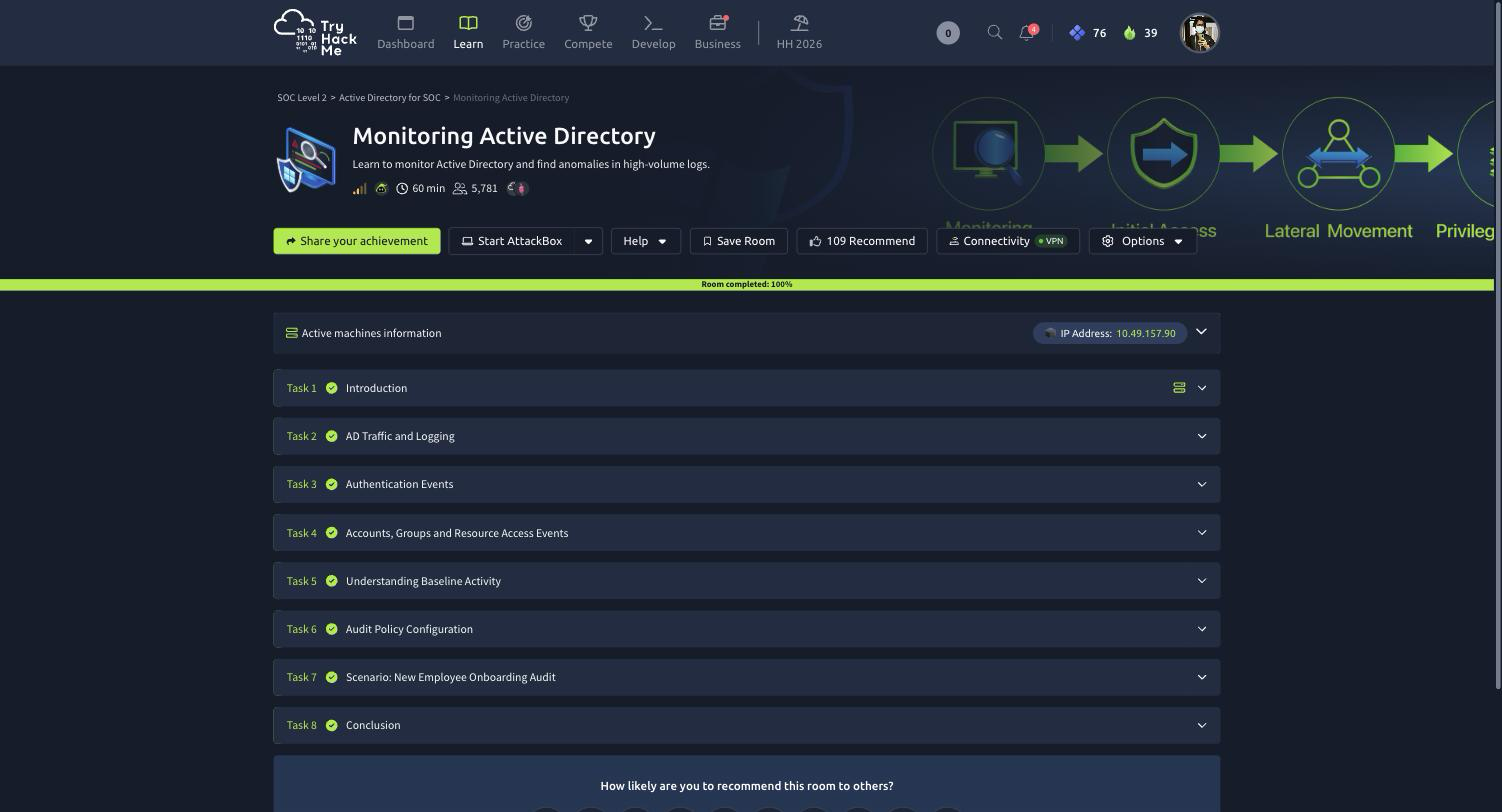
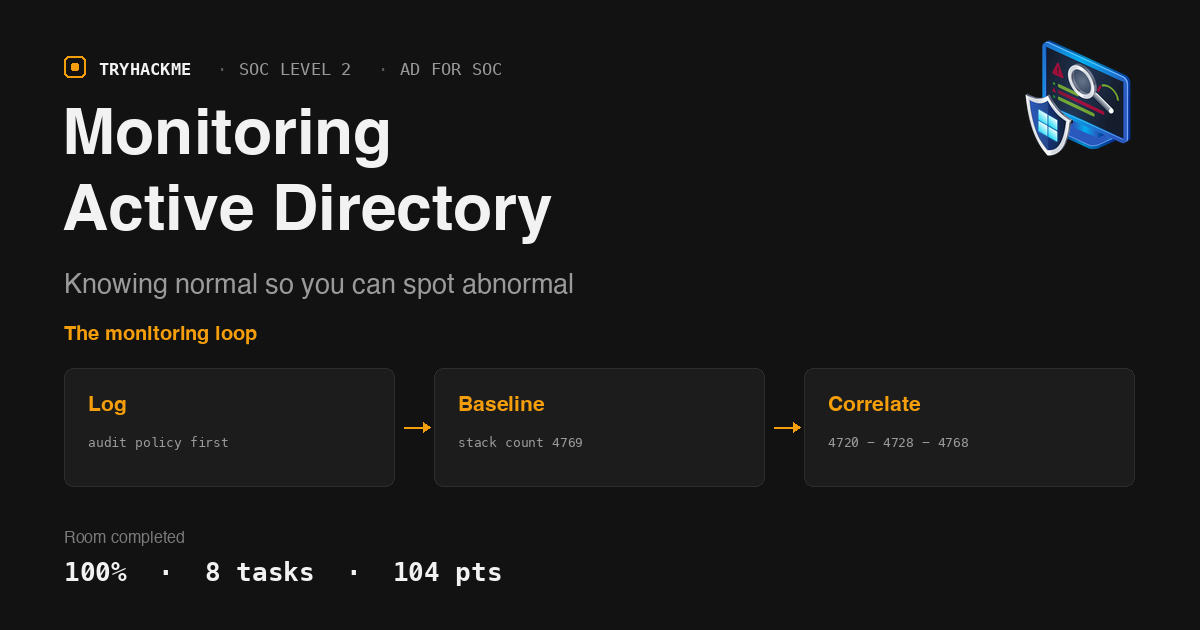
post: TryHackMe Detecting AD Credential Attacks walkthrough — Kerberoasting via RC4 (4769 enc 0x17), AS-REP roasting (Pre_Auth_Type 0), LSASS dumping (procdump 0x1FFFFF + dbgcore.dll), DCSync (4662 Control Access on the domain object), NTDS.dit via ntdsutil IFM + shadow copy, and the rundll32/comsvc
Also adds scripts/gen_room_cover.py and regenerates the Monitoring AD and
Initial Access thumbnails: the previous two were raw browser screenshots
instead of the 1200x630 OG cards the other room posts use. Covers now match
the house style and carry the TryHackMe room logo.

diff --git a/scripts/gen_room_cover.py b/scripts/gen_room_cover.py
@@ -1,0 +1,147 @@
+#!/usr/bin/env python3
+"""Generate a 1200x630 OG cover card for a TryHackMe room walkthrough.
+
+Matches the house style used across classroom.anir0y.in room posts:
+near-black background, a single accent colour, uppercase mono kicker,
+oversized title, a row of content cards, the room logo, and a mono footer.
+
+Usage (as a module):
+    from gen_room_cover import make_cover
+    make_cover(out="static/img/thm-foo/00-thumbnail.png", ...)
+"""
+
+from PIL import Image, ImageDraw, ImageFont
+
+W, H = 1200, 630
+
+BG = (18, 18, 18)
+CARD_BG = (28, 28, 28)
+CARD_BORDER = (48, 44, 40)
+WHITE = (242, 242, 242)
+GREY = (154, 154, 154)
+DIM = (122, 122, 122)
+
+ACCENTS = {
+    "orange": (245, 158, 11),
+    "teal": (13, 190, 175),
+}
+
+HELV = "/System/Library/Fonts/Helvetica.ttc"
+MENLO = "/System/Library/Fonts/Menlo.ttc"
+
+
+def sans(size, bold=True):
+    # Helvetica.ttc: index 1 is Bold, 0 is Regular
+    return ImageFont.truetype(HELV, size, index=1 if bold else 0)
+
+
+def mono(size, bold=False):
+    # Menlo.ttc: index 0 Regular, 1 Bold
+    return ImageFont.truetype(MENLO, size, index=1 if bold else 0)
+
+
+def text_w(draw, s, font):
+    b = draw.textbbox((0, 0), s, font=font)
+    return b[2] - b[0]
+
+
+def make_cover(
+    out,
+    title_lines,
+    subtitle,
+    kicker,            # list of segments after "TRYHACKME", e.g. ["SOC LEVEL 2", "ACTIVE DIRECTORY"]
+    section_label,
+    cards,             # list of (heading, detail) tuples, 3 or 4
+    footer_label,
+    footer_value,
+    logo=None,
+    accent="orange",
+    arrows=True,
+):
+    acc = ACCENTS[accent]
+    img = Image.new("RGB", (W, H), BG)
+    d = ImageDraw.Draw(img)
+
+    # ---- kicker row -------------------------------------------------
+    x, y = 64, 56
+    # small accent square glyph
+    d.rounded_rectangle([x, y, x + 21, y + 21], radius=5, outline=acc, width=2)
+    d.rounded_rectangle([x + 7, y + 7, x + 14, y + 14], radius=2, fill=acc)
+    x += 35
+
+    f_kick = mono(17, bold=True)
+    d.text((x, y + 3), "TRYHACKME", fill=WHITE, font=f_kick)
+    x += text_w(d, "TRYHACKME", f_kick) + 26
+
+    f_kick2 = mono(17)
+    for seg in kicker:
+        d.text((x, y + 3), "·", fill=(90, 90, 90), font=f_kick2)
+        x += 22
+        d.text((x, y + 3), seg.upper(), fill=GREY, font=f_kick2)
+        x += text_w(d, seg.upper(), f_kick2) + 26
+
+    # ---- room logo (top right) --------------------------------------
+    if logo:
+        try:
+            lg = Image.open(logo).convert("RGBA")
+            lg.thumbnail((116, 116), Image.LANCZOS)
+            img.paste(lg, (W - 64 - lg.width, 40), lg)
+        except Exception as e:  # noqa: BLE001 - cover art is best-effort
+            print(f"  ! logo skipped: {e}")
+
+    # ---- title ------------------------------------------------------
+    # Two-line titles need a tighter type size and a higher start so the
+    # subtitle and card row keep their breathing room on a 630px canvas.
+    two_line = len(title_lines) > 1
+    t_size, t_start, t_step = (64, 104, 76) if two_line else (72, 118, 82)
+
+    y = t_start
+    f_title = sans(t_size)
+    for line in title_lines:
+        d.text((62, y), line, fill=WHITE, font=f_title)
+        y += t_step
+
+    # ---- subtitle ---------------------------------------------------
+    y += 16
+    f_sub = sans(27, bold=False)
+    d.text((64, y), subtitle, fill=GREY, font=f_sub)
+
+    # ---- section label ----------------------------------------------
+    y_cards = 368 if two_line else 352
+    d.text((64, y_cards - 44), section_label, fill=acc, font=sans(20))
+
+    # ---- cards ------------------------------------------------------
+    n = len(cards)
+    gap = 40 if arrows else 22
+    total_w = W - 128
+    cw = (total_w - gap * (n - 1)) // n
+    ch = 118
+    f_ch = sans(21)
+    f_cd = mono(13)
+
+    for i, (heading, detail) in enumerate(cards):
+        cx = 64 + i * (cw + gap)
+        d.rounded_rectangle(
+            [cx, y_cards, cx + cw, y_cards + ch],
+            radius=9, fill=CARD_BG, outline=CARD_BORDER, width=1,
+        )
+        d.text((cx + 24, y_cards + 26), heading, fill=acc, font=f_ch)
+        d.text((cx + 24, y_cards + 66), detail, fill=GREY, font=f_cd)
+
+        if arrows and i < n - 1:
+            ax = cx + cw + 10
+            ay = y_cards + ch // 2
+            d.line([(ax, ay), (ax + 19, ay)], fill=acc, width=2)
+            d.polygon([(ax + 19, ay - 5), (ax + 26, ay), (ax + 19, ay + 5)], fill=acc)
+
+    # ---- footer -----------------------------------------------------
+    fy = y_cards + ch + 44
+    d.text((64, fy), footer_label, fill=DIM, font=sans(16, bold=False))
+    d.text((64, fy + 26), footer_value, fill=WHITE, font=mono(26, bold=True))
+
+    img.save(out, "PNG", optimize=True)
+    print(f"  Created {out} ({W}x{H})")
+
+
+if __name__ == "__main__":
+    print("This module is imported by per-room cover scripts.")

diff --git a/content/post/thm-room-detectingadcredentialattacks.md b/content/post/thm-room-detectingadcredentialattacks.md
@@ -1,0 +1,182 @@
+---
+title: "TryHackMe Detecting AD Credential Attacks Walkthrough"
+date: 2026-08-16T23:55:00+05:30
+lastmod: 2026-08-16T23:55:00+05:30
+author: Animesh Roy
+avatar: /img/avatar.jpeg
+authorlink: https://anir0y.in
+featureimage: img/thm-adcredattacks/00-thumbnail.png
+
+categories:
+  - TryHackMe
+tags:
+  - tryhackme
+  - thm
+  - rooms
+  - SOC Level 2
+  - Active Directory
+  - Splunk
+  - Kerberoasting
+  - DCSync
+  - Threat Hunting
+  - Blue Team
+
+draft: false
+description: "Walkthrough of TryHackMe Detecting AD Credential Attacks: Kerberoasting via RC4 service tickets, AS-REP roasting, LSASS dumping with procdump, DCSync via Event 4662, and NTDS.dit extraction."
+---
+
+## Detecting AD Credential Attacks
+
+Third room in the **Active Directory for SOC** module, after [Monitoring Active Directory](/post/thm-room-monitoringactivedirectory/) and [Detecting AD Initial Access](/post/thm-room-detectingadinitialaccess/). Those two covered what normal looks like and how an attacker gets through the front door. This one covers the five techniques that bridge the gap between *attacker has a foothold* and *attacker owns the domain*: Kerberoasting, AS-REP roasting, LSASS dumping, DCSync, and NTDS.dit extraction.
+
+The framing is a real intrusion. In August 2024 a DFIR Report case documented BlackSuit ransomware operators using Rubeus to Kerberoast service accounts, AS-REP roasting an account with preauthentication disabled, and dumping credentials from LSASS memory — all in a single intrusion. A separate BlackSuit case investigated by ReliaQuest that same year saw over 20 accounts compromised through Kerberoasting alone, including a domain administrator. None of it was exotic.
+
+Eight tasks, eighteen graded answers, and a nice structural touch: **each task has its own Splunk index** (`task2` through `task7`), so the datasets never contaminate each other. All solved 100%.
+
+![TryHackMe Detecting AD Credential Attacks at 100%, all eight tasks complete](/img/thm-adcredattacks/00-thumbnail.png)
+
+As with the previous rooms I ran the SPL through Splunk's REST API and re-ran the interesting searches in the browser for the screenshots. And again: **set the time picker to All time** — the data is timestamped March 2026.
+
+## Task 2: Kerberoasting
+
+Kerberoasting works because any domain user can request a service ticket for any account with an SPN, and the ticket is encrypted with the service account's password hash. Request it, take it offline, crack it. The room's explanation of *how accounts end up roastable* is the honest one: an admin needs to run SQL Server, uses their own DA account as the service identity because it is quick, sets a memorable password, and moves on. Repeat over several years.
+
+The detection signal is the encryption type. Modern AD issues AES-256 (`0x12`); attackers deliberately request **RC4 (`0x17`)** because it cracks far faster. So one query separates the attack from the noise:
+
+```
+index=task2 EventCode=4769
+| stats count by Ticket_Encryption_Type, Account_Name, Service_Name, Client_Address
+| sort - Ticket_Encryption_Type
+```
+
+![Splunk showing nine RC4 (0x17) service ticket requests from emma.wilson against nine svc- accounts, versus normal 0x12 traffic](/img/thm-adcredattacks/01-splunk-kerberoasting-rc4.png)
+
+The shape is unmistakable. Nine `0x17` rows, all from **emma.wilson**, all from **10.5.90.1**, each hitting a different service account — `svc-app`, `svc-backup`, `svc-ftp`, `svc-mail`, `svc-print`, `svc-report`, `svc-share`, `svc-sql`, `svc-web`. Below them sit the four legitimate `0x12` requests from real workstations to `THM-DC$` and `THM-SHR-SRV$`.
+
+So: **9** service accounts targeted, by **emma.wilson**, from **10.5.90.1**. One user enumerating every SPN in the domain within a few seconds is not a person doing their job.
+
+## Task 3: AS-REP roasting
+
+Same offline-cracking goal, different weakness. AS-REP roasting targets accounts with **preauthentication disabled**, and unlike Kerberoasting it does not need valid domain credentials at all — the DC simply hands over encrypted material to anyone who asks.
+
+Normal Kerberos requires the user to prove knowledge of their password first by encrypting a timestamp, which the DC logs as Event 4768 with `Pre_Authentication_Type=2`. When preauth is off, that value is **0**:
+
+```
+index=task3 EventCode=4768
+| stats count by Pre_Authentication_Type, Account_Name, Ticket_Encryption_Type, Client_Address
+#   0   alex.reed         0x17   ::ffff:10.5.90.1    2
+#   2   jessica.martinez  0x12   ::ffff:10.5.50.15   1
+#   2   liam.patel        0x12   ::ffff:10.5.50.20   1
+```
+
+**alex.reed** is the account with preauthentication disabled — and note it lines up on both axes: Pre-Auth Type 0 *and* RC4 *and* the same `10.5.90.1` attacker host from Task 2. Everyone else is Type 2 with AES from their own workstation.
+
+## Task 4: LSASS credential dumping
+
+{{< ad >}}
+
+Roasting gets you hashes to crack. Dumping LSASS gets you credentials directly out of memory, no cracking required. The detection source shifts from Security events to **Sysmon Event ID 10 (ProcessAccess)**, which records one process opening a handle to another.
+
+```
+index=task4 EventCode=10 TargetImage="*lsass.exe"
+| stats count by SourceImage, GrantedAccess | sort -count
+```
+
+![Splunk showing svchost.exe accessing lsass.exe normally alongside C:\Windows\Temp\procdump64.exe with GrantedAccess 0x1FFFFF](/img/thm-adcredattacks/02-splunk-lsass-procdump.png)
+
+Three rows, and the third is the intrusion. `svchost.exe` touching LSASS 100 times with `0x1000` is routine Windows behaviour — this is exactly why "alert on any LSASS access" produces unusable noise. The outlier is **`C:\Windows\Temp\procdump64.exe`** with **`0x1FFFFF`**, which is PROCESS_ALL_ACCESS. Two signals stack here: the access mask is far broader than anything legitimate needs, and a signed Sysinternals binary is running out of `C:\Windows\Temp`.
+
+The third question is the interesting one, because it asks *how* the dump was taken. The answer is in the CallTrace:
+
+```
+index=task4 EventCode=10 TargetImage="*lsass.exe" SourceImage="*procdump64.exe"
+| table _time, GrantedAccess, CallTrace
+#   ...KERNEL32.DLL+2364e | dbgcore.DLL+aeef | dbgcore.DLL+1ac05 | dbgcore.DLL+13cf0 ...
+```
+
+**dbgcore.dll** — the library exporting `MiniDumpWriteDump`. Its presence in the call stack is what proves memory was actually written to a dump file rather than merely read, and it is the signature that survives renaming the executable.
+
+## Task 5: DCSync
+
+DCSync is the point where an attacker stops stealing individual credentials and asks the domain controller to hand over every password hash in the directory, by impersonating a DC and invoking replication. There is no malware and no process to catch — from AD's point of view it is a legitimate operation, just performed by the wrong principal.
+
+The evidence is **Event 4662**, object access on the domain object with `Control Access` rights:
+
+```
+index=task5 EventCode=4662 Properties="*Control Access*"
+| stats count by Account_Name, Logon_ID, Object_Type | sort -count
+```
+
+![Splunk showing adm-luke.sullivan performing Control Access on the domain object, alongside legitimate THM-DC$ activity](/img/thm-adcredattacks/03-splunk-dcsync-4662.png)
+
+The trick is knowing what to ignore. Domain controllers replicate with each other constantly, so `THM-DC$` generating 4662 is expected — machine accounts *should* be there. What should never appear is a **user** account performing replication against the domain object `19195a5b-6da0-11d0-afd3-00c04fd930c9`. That is **adm-luke.sullivan**, on Logon ID **0x5A01668**.
+
+The Logon ID is the pivot that makes this actionable. It ties the directory operation back to the session that performed it:
+
+```
+index=task5 EventCode=4624 Logon_ID=0x5A01668
+| table _time, Account_Name, Logon_Type, Source_Network_Address
+#   2026-03-17 05:30:47   adm-luke.sullivan   Type 3   10.5.90.1
+```
+
+**10.5.90.1** again — the same host that ran the Kerberoasting and the AS-REP roasting. Four techniques, one operator.
+
+## Task 6: NTDS.dit extraction
+
+The last resort when DCSync is not available: copy the AD database off the disk. `ntds.dit` is locked while the DC is running, so the attacker needs either a volume shadow copy or the built-in IFM export. This dataset has **both**, which makes the command timeline the cleanest artefact in the room:
+
+```
+index=task6 EventCode=1 (CommandLine="*ntds*" OR CommandLine="*vssadmin*" OR CommandLine="*ShadowCopy*")
+| table _time, CommandLine | sort _time
+```
+
+![Splunk showing the five-command NTDS.dit extraction chain from ntdsutil IFM through vssadmin shadow copy to shadow deletion](/img/thm-adcredattacks/04-splunk-ntds-extraction.png)
+
+Five commands, forty seconds:
+
+| Time | Command |
+|---|---|
+| 07:57:13 | `ntdsutil "ac i ntds" "ifm" "create full C:\Perflogs\1" q q` |
+| 07:57:29 | `vssadmin create shadow /for=C:` |
+| 07:57:40 | `cmd /c copy "\\?\GLOBALROOT\Device\HarddiskVolumeShadowCopy7\Windows\NTDS\ntds.dit" C:\Windows\Temp\ntds.dit.save` |
+| 07:57:42 | `cmd /c copy "\\?\GLOBALROOT\...\Windows\System32\config\SYSTEM" C:\Windows\Temp\system.save` |
+| 07:57:53 | `vssadmin delete shadows /all /quiet` |
+
+So the extraction command is the `ntdsutil` IFM one-liner, the shadow copy source is `\\?\GLOBALROOT\Device\HarddiskVolumeShadowCopy7\Windows\NTDS\ntds.dit`, and the staging directory is **`C:\Windows\Temp`**.
+
+Three details worth carrying away. The attacker copied **SYSTEM** alongside `ntds.dit` — the database is encrypted with the boot key stored in that hive, so `ntds.dit` alone is useless and the pair is what makes the theft complete. The `C:\Perflogs` target is a classic staging directory: it exists by default, it is writable, and nobody looks in it. And the final `vssadmin delete shadows /all /quiet` is anti-forensics that doubles as a ransomware precursor — the same command appears in nearly every ransomware playbook to prevent recovery.
+
+One practical note on answering these: the room wants the command line *exactly as Splunk shows it*, and Sysmon renders these with a **double space** after the image name (`ntdsutil  "ac i ntds"`). The underscore mask on the answer box confirms the character count, so match it literally.
+
+## Task 7: the investigation challenge
+
+A fresh index, an unguided intrusion, and five questions that ask you to repeat all four detections without being told which is which. Every query from the earlier tasks transfers directly.
+
+```
+index=task7 EventCode=4768 Pre_Authentication_Type=0 | stats count by Account_Name
+#   -> mia.turner
+
+index=task7 EventCode=4769 Ticket_Encryption_Type=0x17 | stats dc(Service_Name) by Account_Name
+#   -> nathan.brooks, 9 service accounts
+
+index=task7 EventCode=10 TargetImage="*lsass.exe" | stats count by host, SourceImage, GrantedAccess
+#   -> THM-DEV-WS  C:\Windows\system32\rundll32.exe  0x1FFFFF (and 0x1410)
+```
+
+So the AS-REP target is **mia.turner** and the Kerberoasting account is **nathan.brooks**. The LSASS answer is **rundll32.exe** — not procdump this time, which is the point of the challenge. The CallTrace shows `comsvcs.dll` followed by `dbgcore.DLL`, meaning this is the living-off-the-land `rundll32 comsvcs.dll MiniDump` technique: no attacker binary on disk at all, just two signed Microsoft DLLs. The behavioural signature is identical even though the tooling changed completely.
+
+That produced the one genuine judgement call in the room. `rundll32.exe` shows **two** ProcessAccess events, `0x1410` and `0x1FFFFF`, so which is "the LSASS dump"? The CallTrace decides it: only the `0x1FFFFF` event contains `dbgcore.DLL` in its stack. The `0x1410` handle is the preceding open; the `0x1FFFFF` one is where `MiniDumpWriteDump` actually ran. **0x1FFFFF** is the answer.
+
+For DCSync, the naive query misleads. Both `adm-luke.sullivan` and `nathan.brooks` generate 4662 events, and nathan.brooks has 17 of them. But filtering on `Properties` separates them: nathan.brooks's are all **`Read Property`** against user objects (`bf967aba`), which is ordinary LDAP enumeration, while adm-luke.sullivan has 105 **`Control Access`** events against the domain object. **adm-luke.sullivan** performed the DCSync.
+
+Worth flagging for anyone building this detection: I first tried filtering on the replication extended-right GUIDs (`1131f6aa-…`, `1131f6ad-…`) since that is the canonical DCSync rule, and it returned **zero results** — this dataset carries the friendly `Control Access` string in `Properties` rather than the raw GUIDs. Write the rule against what your logs actually contain, not against what the blog posts say they should.
+
+## Task 8: what ties it together
+
+![TryHackMe Detecting AD Credential Attacks completed — 8 tasks, 40 points](/img/thm-adcredattacks/05-room-complete.png)
+
+The through-line is that each of these five techniques has a signature that does not depend on the tool. RC4 in a 4769 does not care whether the attacker ran Rubeus or Impacket. `Pre_Authentication_Type=0` is a property of the account, not the exploit. A user account issuing Control Access against the domain object is DCSync regardless of whether it was mimikatz or secretsdump. And `dbgcore.dll` in a CallTrace means a minidump was written whether the caller was `procdump64.exe` or `rundll32.exe` — which the challenge demonstrates by swapping exactly that.
+
+The other lesson is about false positives, and the room teaches it by including them rather than describing them. `svchost.exe` touching LSASS a hundred times, domain controllers replicating with each other, users reading directory properties — all present, all benign, all indistinguishable from the attack if you alert on the event ID alone. The discriminator is never the event; it is the field. Encryption type, preauth type, access mask, principal class, `Properties` value.
+
+Room solved 100% — eight tasks, eighteen answers, 40 points.
